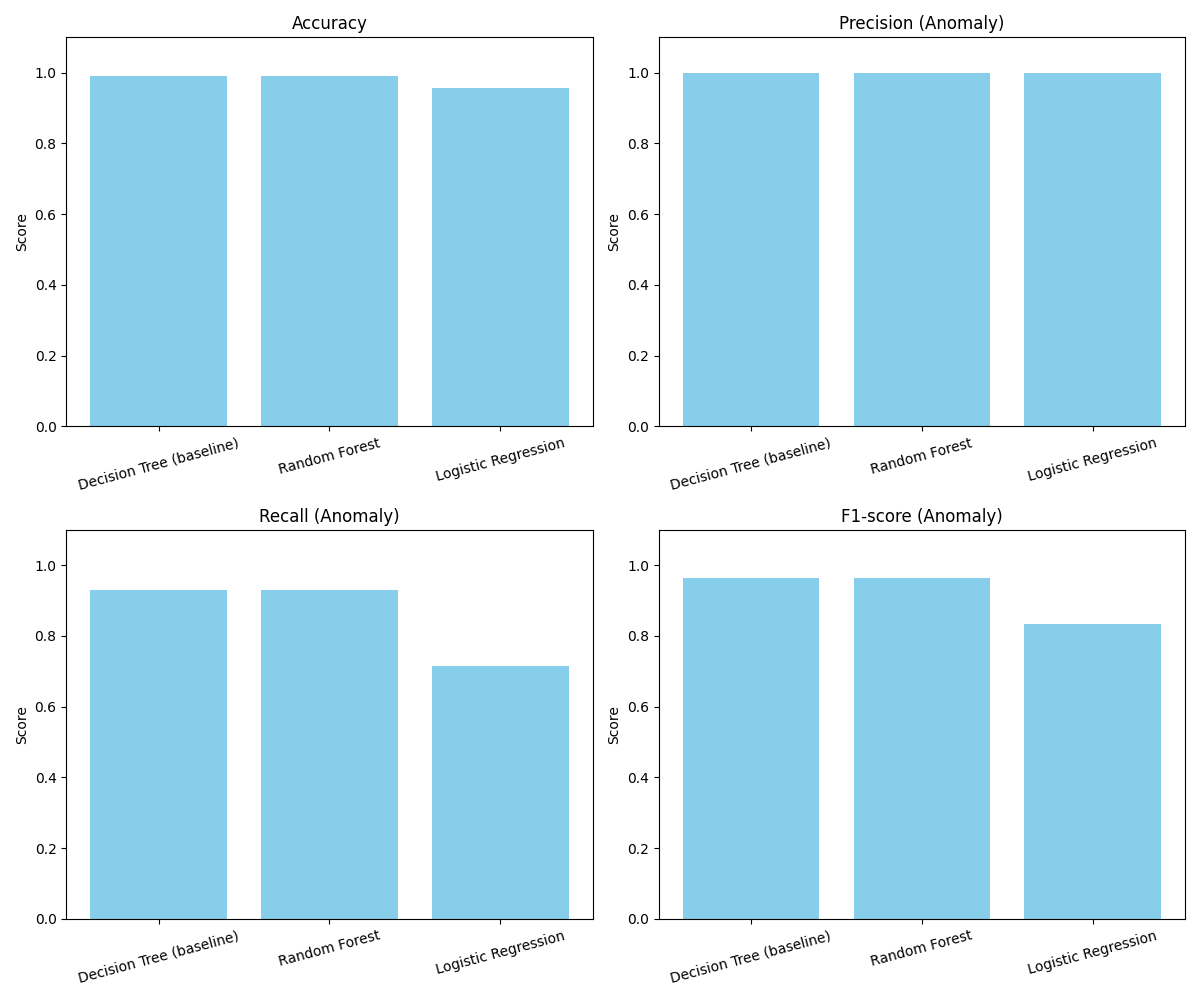
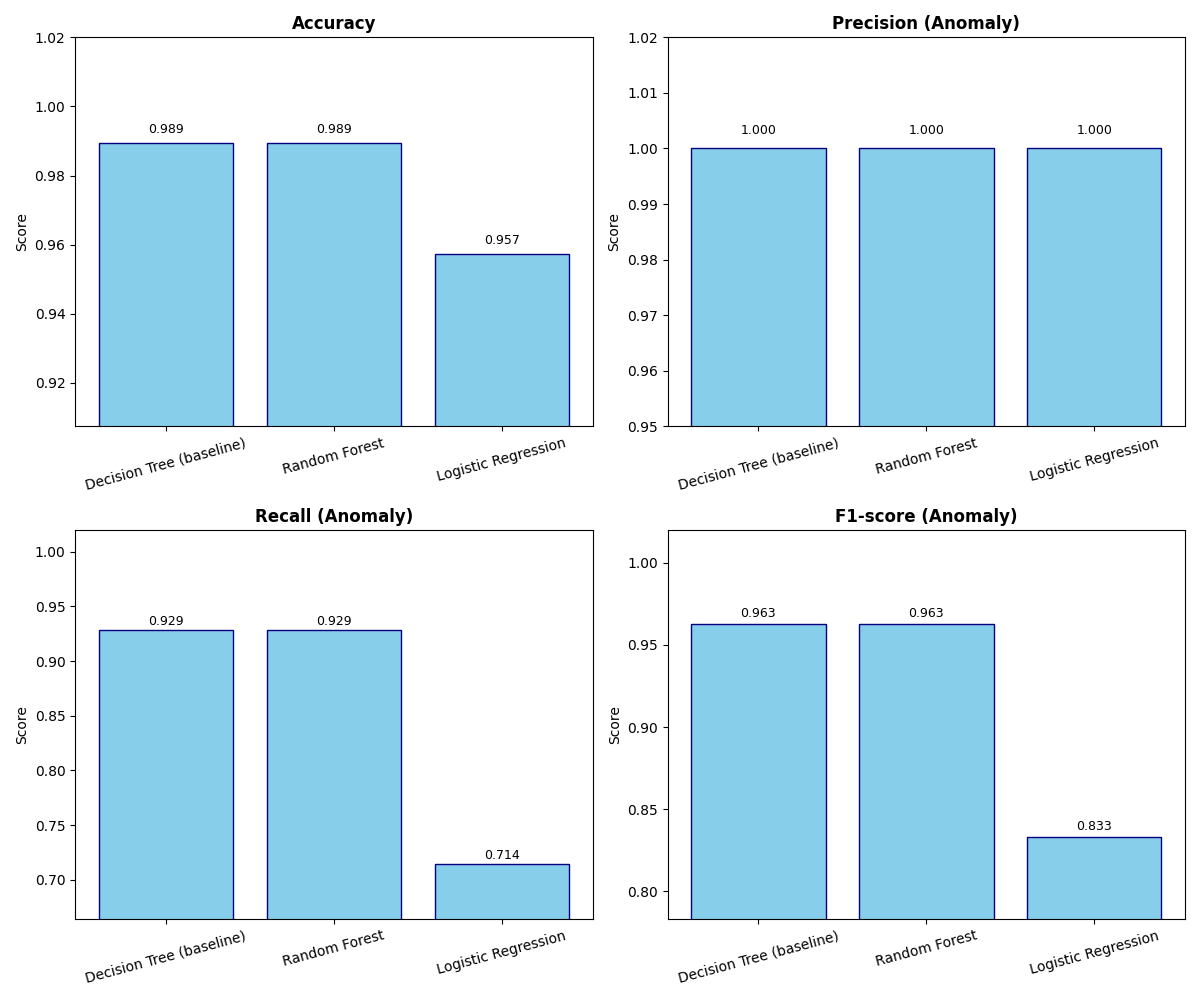
Improve visualization: rescale Y-axis and add value labels

diff --git a/Lab-6/ooais-project/src/models/model_playground.py b/Lab-6/ooais-project/src/models/model_playground.py
@@ -254,16 +254,23 @@ def create_metric_plots(ranked_models):
     titles = ["Accuracy", "Precision (Anomaly)", "Recall (Anomaly)", "F1-score (Anomaly)"]
     
     for ax, data, title in zip(axes.flat, metrics, titles):
-        ax.bar(names, data, color='skyblue')
-        ax.set_title(title)
-        ax.set_ylim(0, 1.1)
-        ax.tick_params(axis="x", rotation=15)
+        bars = ax.bar(names, data, color='skyblue', edgecolor='navy')
+        ax.set_title(title, fontweight='bold')
+        
+        min_val = min(data)
+        ax.set_ylim(max(0, min_val - 0.05), 1.02) 
+        
         ax.set_ylabel("Score")
+        ax.tick_params(axis="x", rotation=15)
+        
+        for bar in bars:
+            height = bar.get_height()
+            ax.text(bar.get_x() + bar.get_width()/2., height + 0.002,
+                    f'{height:.3f}', ha='center', va='bottom', fontsize=9)
 
     plt.tight_layout()
     plt.savefig("reports/model_comparison_panel.png")
     print("Saved file: reports/model_comparison_panel.png")
-
 # --- MAIN EXECUTION ---
 if __name__ == "__main__":
     validate_input_files()
